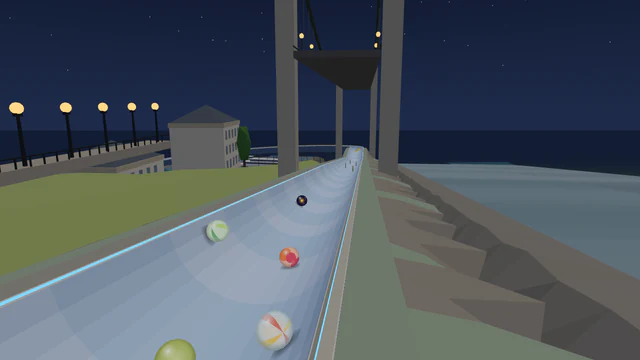
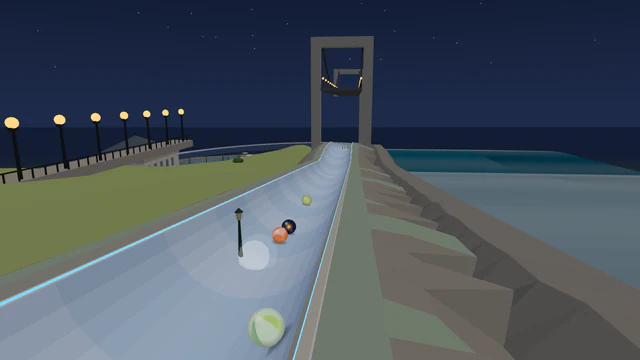
Rivers WIP: three gates in the bridge slalom; cables as beams on phones
Claude-Session: https://claude.ai/code/session_011vSSkqNPL9kncfzrwF15wS

diff --git a/src/trackKit/layouts.js b/src/trackKit/layouts.js
@@ -1291,7 +1291,7 @@ const LAYOUTS = {
   'bridge-slalom': (L, R, c) => [
     { key: 'quay', name: 'Quay straight', shape: straight(100, { grade: 0.11 }), obstacles: [peg({ costume: c.peg, at: 0.15, line: 'left' }), peg({ costume: c.peg, at: 0.3, line: 'right' })], billboards: 1 },
     { key: 'rise', name: 'Up to the bridge', shape: climb(12, { grade: -0.05, after: 0.12 }) },
-    { key: 'pillars', name: 'Bridge slalom', shape: straight(100, { grade: 0.12 }), obstacles: [slalom({ costume: c.slalom, from: 0.25, to: 0.85, count: 4, loss: 0.2 })], billboards: 1 },
+    { key: 'pillars', name: 'Bridge slalom', shape: straight(100, { grade: 0.12 }), obstacles: [slalom({ costume: c.slalom, from: 0.3, to: 0.85, count: 3, loss: 0.22 })], billboards: 1 },
     { key: 'flyOut', name: 'Sweep over the river', shape: sweep({ side: R, radius: 90, degrees: 150, grade: 0.085 }), features: [boost({ at: 0.08 })], billboards: 2 },
     { key: 'drop', name: 'Drop', shape: plunge(45, { grade: 0.22, from: 0.085 }) },
     { key: 'brakingStraight', name: 'Run to the hairpin', shape: straight(50, { grade: 0.12 }) },

diff --git a/client/src/three/scenery/riverSpans.js b/client/src/three/scenery/riverSpans.js
@@ -69,6 +69,11 @@ export function buildRiverSpans(centerline, channel, kit, { river, groundAt, cor
       }
     }
   }
+  // (On a phone the cables are thin beams in the bridges' one mesh: one draw call fewer.)
+  if (lite) {
+    for (let k = 0; k < lines.length; k += 6) parts.push(beam(new Vector3(lines[k], lines[k + 1], lines[k + 2]), new Vector3(lines[k + 3], lines[k + 4], lines[k + 5]), 0.12, '#2a2c30'));
+    lines.length = 0;
+  }
   if (parts.length) {
     const mesh = new Mesh(merge(parts), new MeshLambertMaterial({ vertexColors: true, flatShading: true }));
     mesh.name = 'river bridges';
